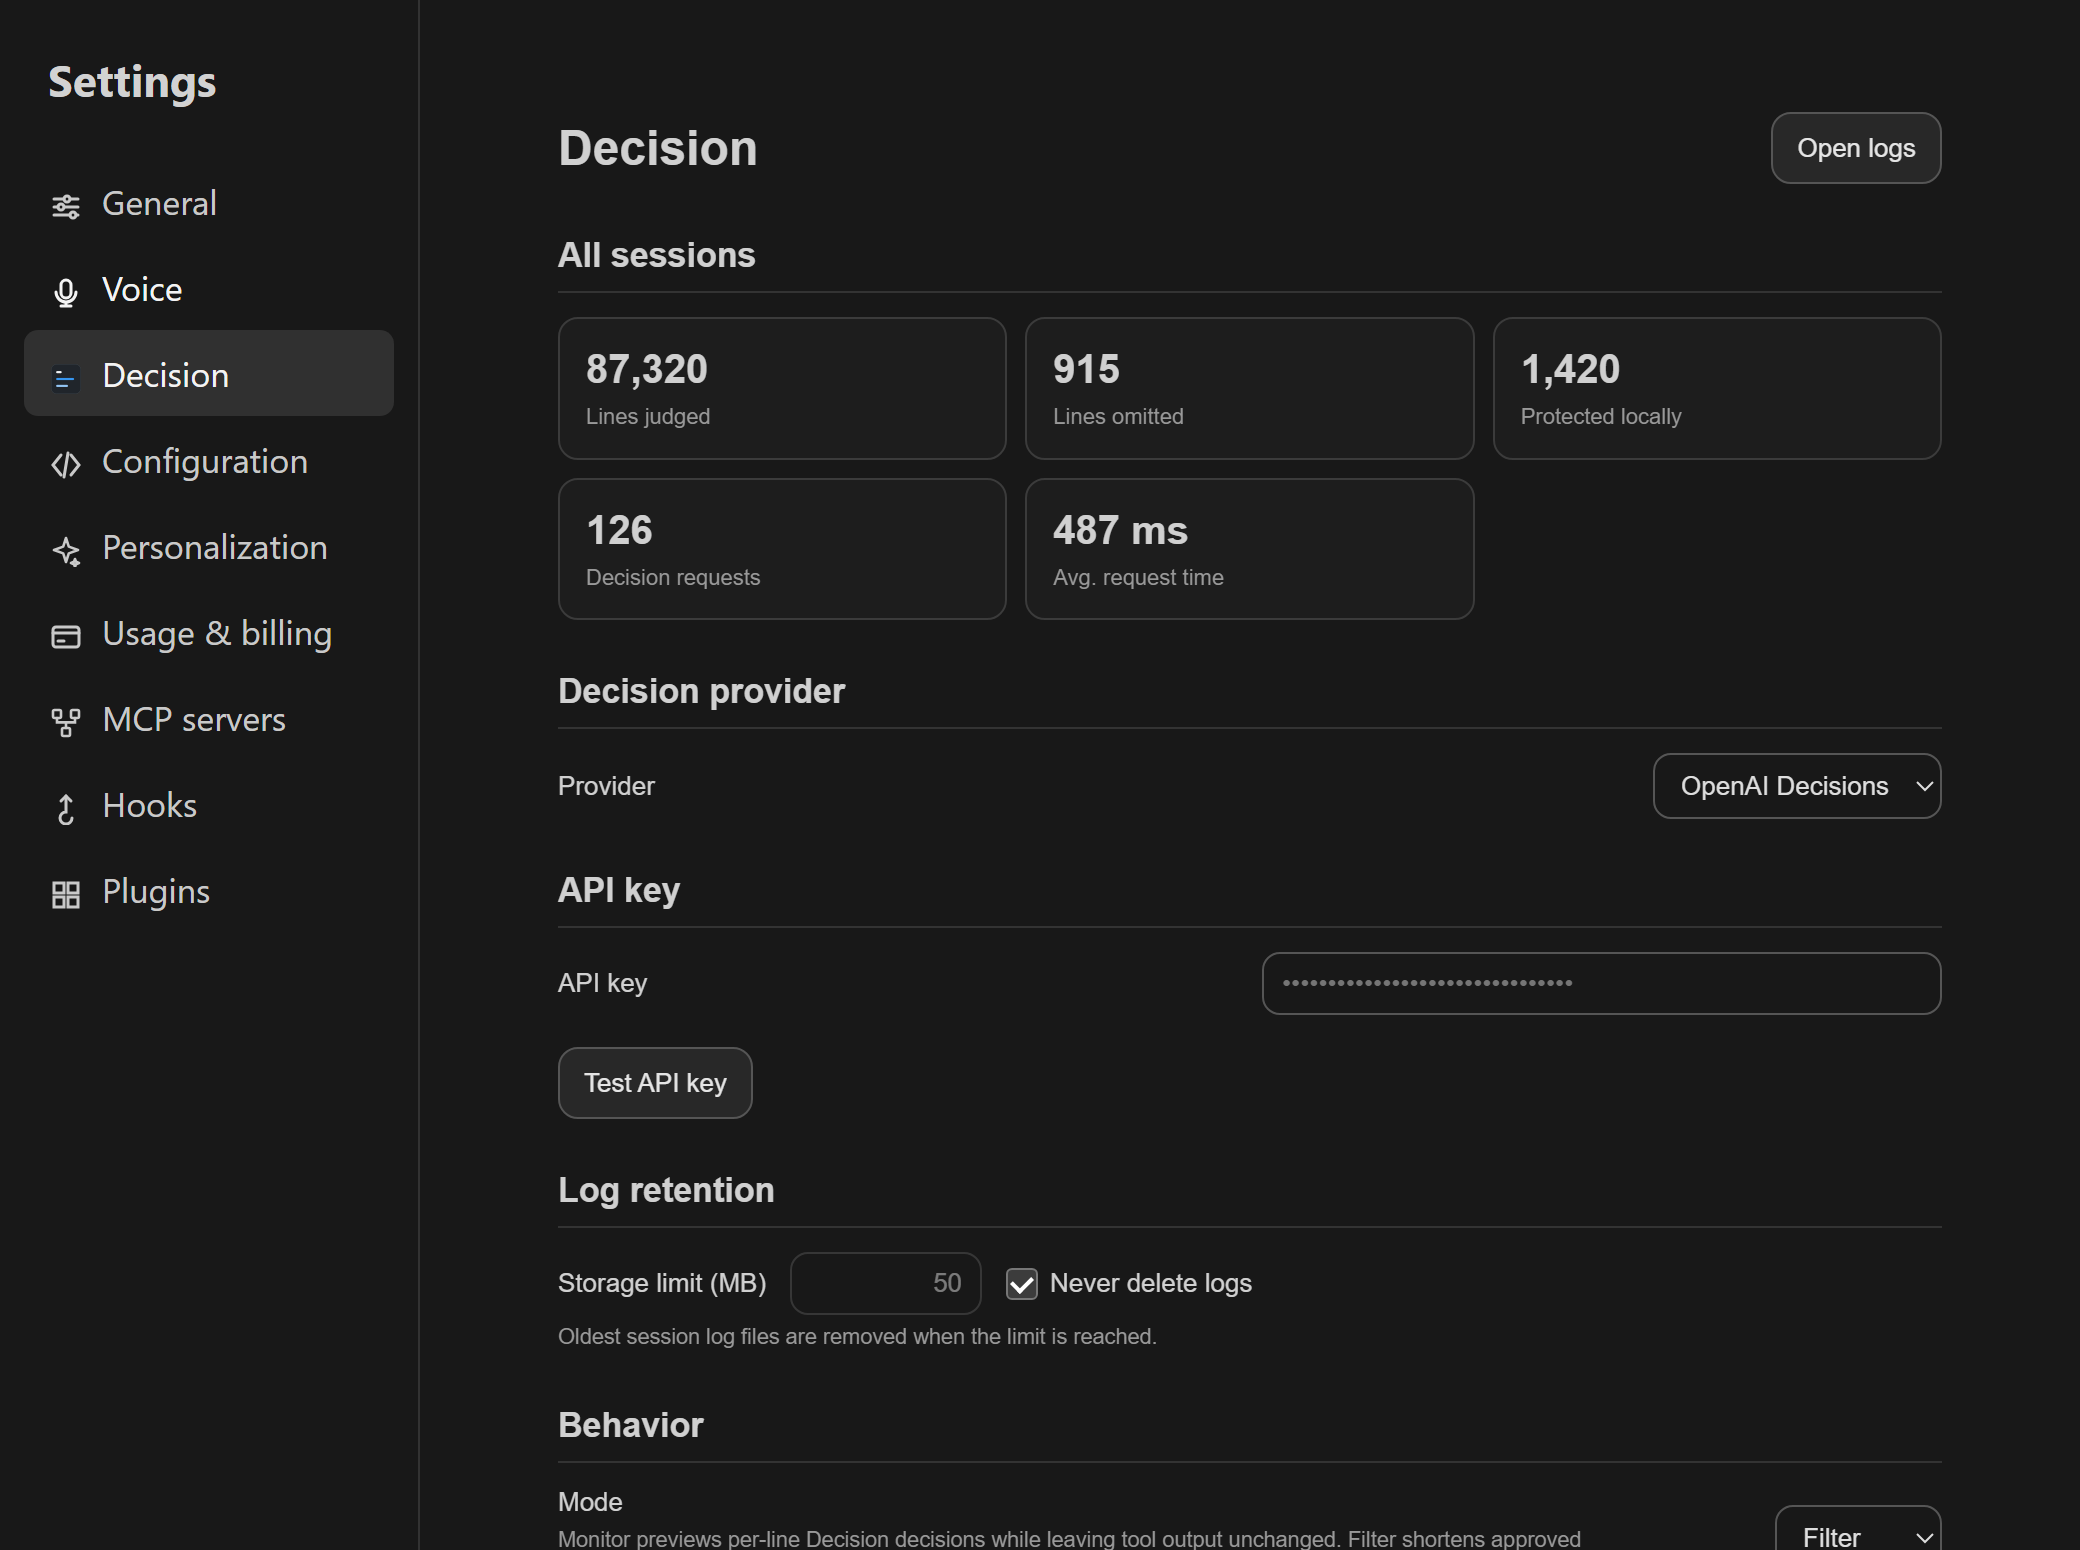
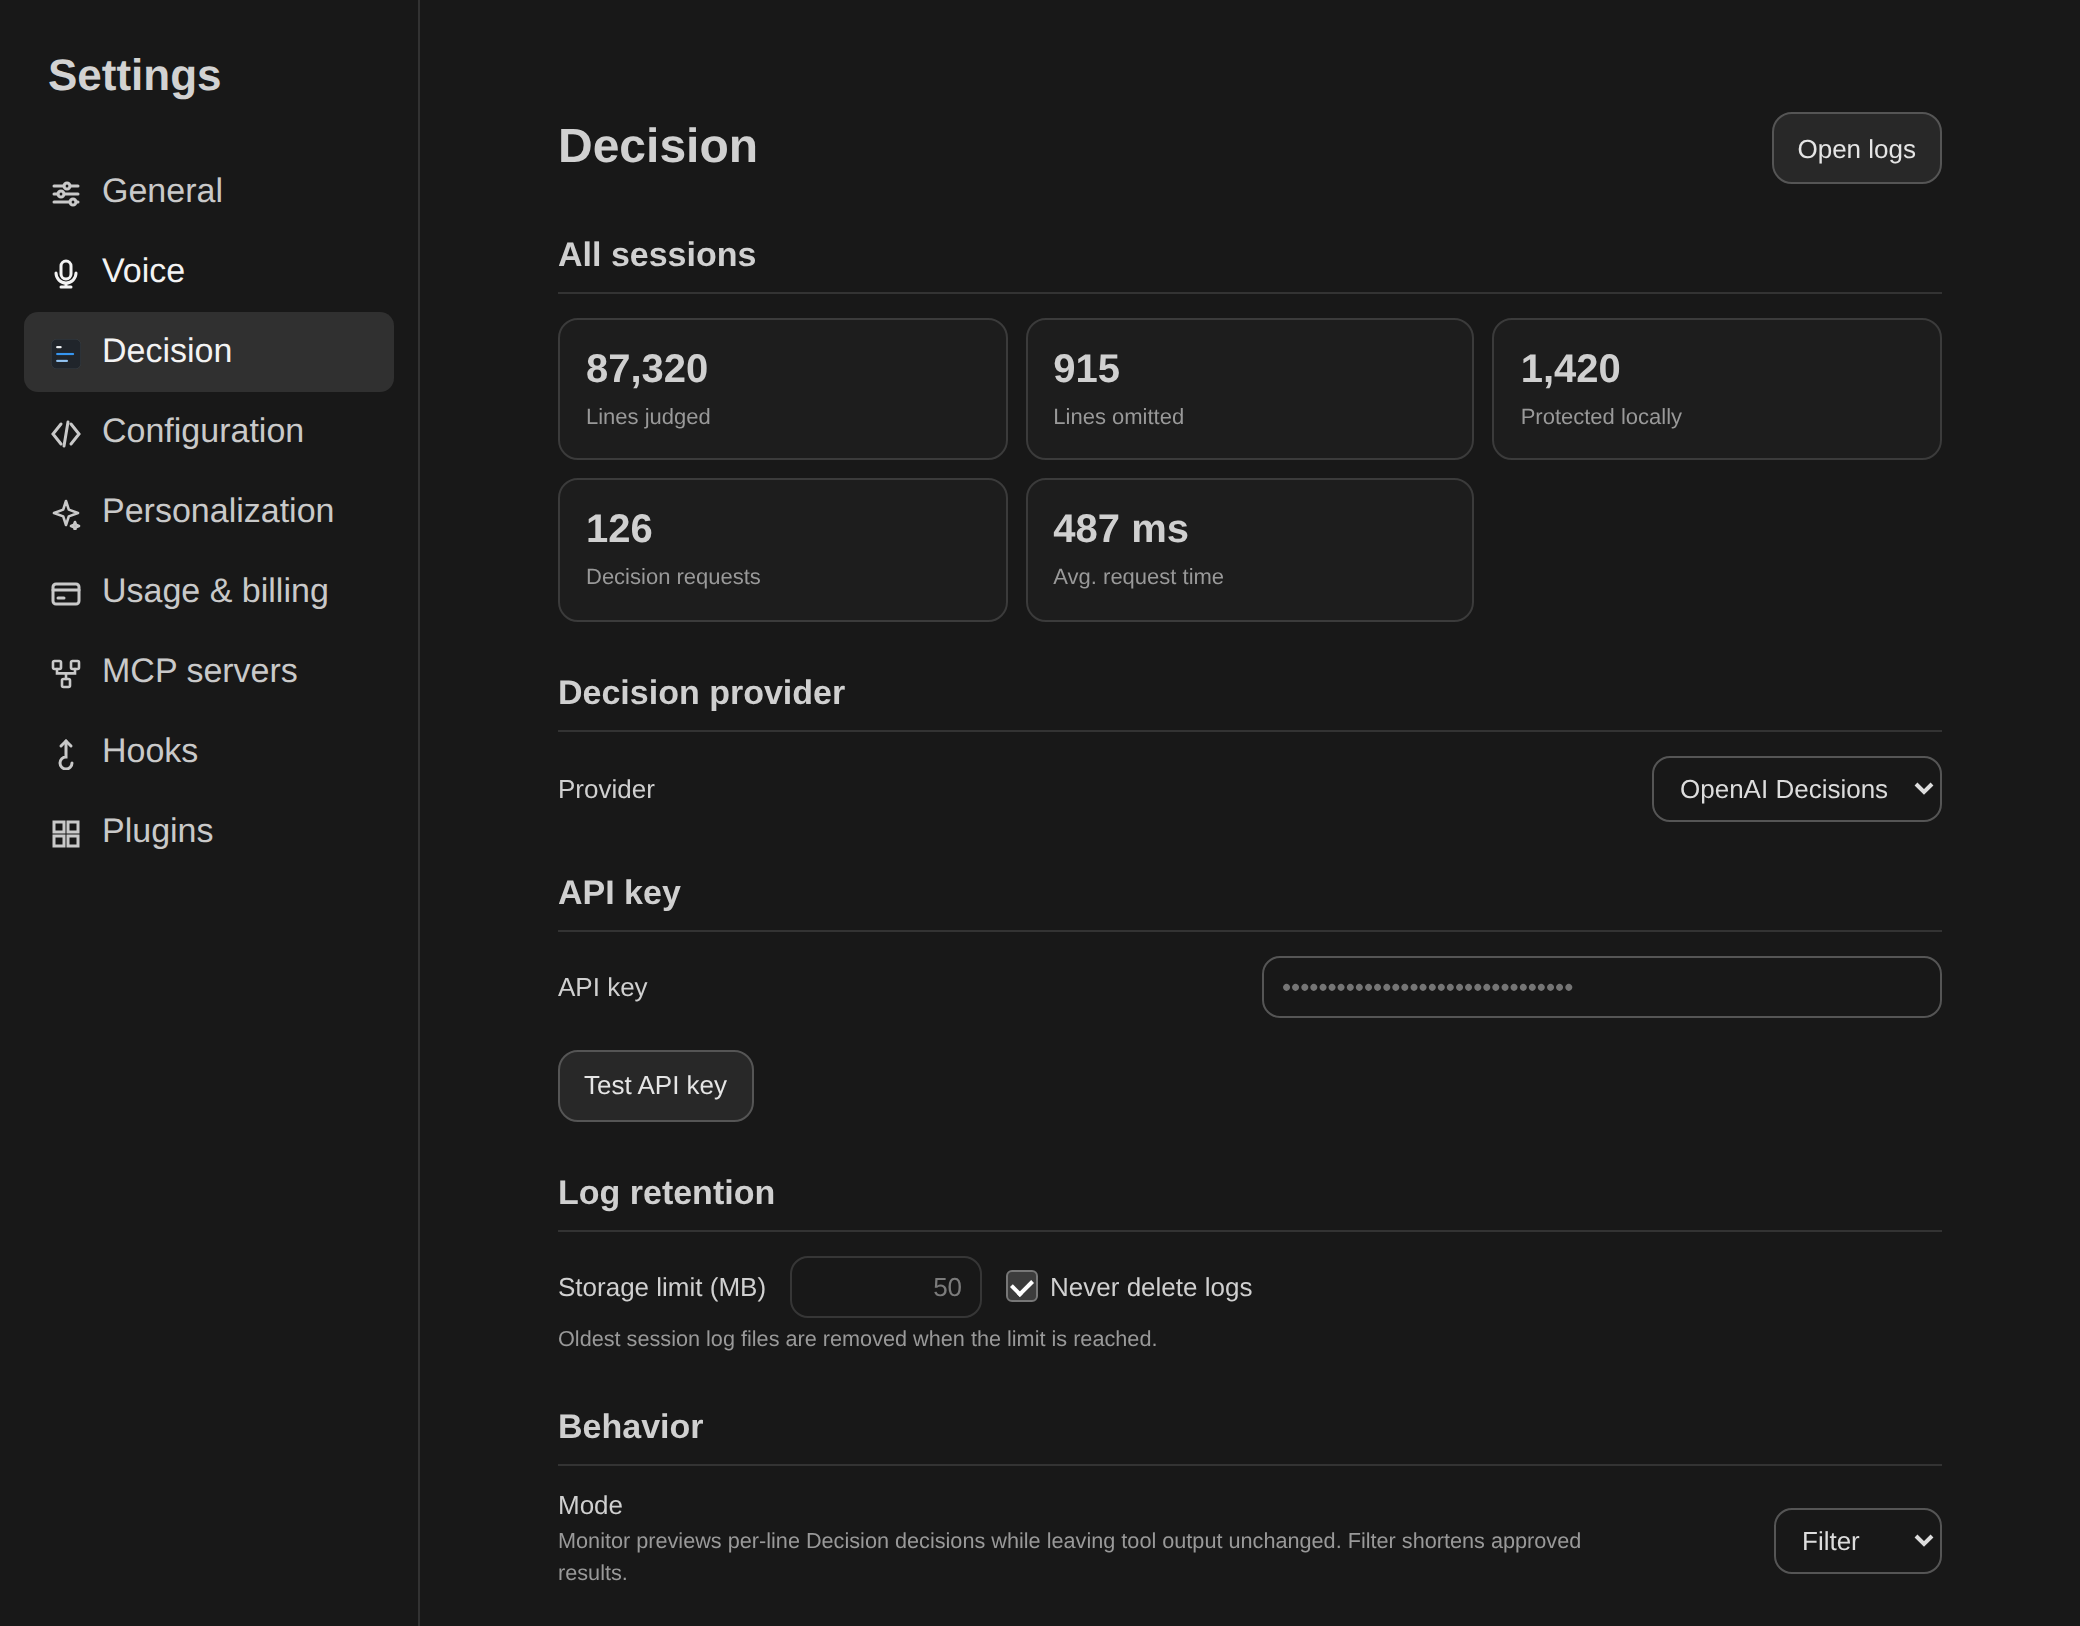
Prepare Decision release documentation and portable verification

diff --git a/tests/browser/visual_harness.html b/tests/browser/visual_harness.html
@@ -135,7 +135,21 @@
       }
       const anchor = document.querySelector(".access").getBoundingClientRect();
       const button = document.getElementById("codex-decision-button").getBoundingClientRect();
-      document.body.dataset.layout = JSON.stringify({ anchorTop: anchor.top, buttonTop: button.top, screenshotOffset: Math.max(0, outerHeight - innerHeight) });
+      const layout = { anchorTop: anchor.top, buttonTop: button.top, screenshotOffset: Math.max(0, outerHeight - innerHeight) };
+      if (demo === "settings") {
+        const recordSettings = () => {
+          const thresholds = document.getElementById("codex-decision-settings-thresholds");
+          const actions = document.querySelector("#codex-decision-settings-panel .save-actions");
+          if (!thresholds || !actions) return setTimeout(recordSettings, 20);
+          layout.settingsSplit = Math.floor(thresholds.getBoundingClientRect().top - 8);
+          layout.settingsBottom = Math.ceil(actions.getBoundingClientRect().bottom + 12);
+          document.body.dataset.layout = JSON.stringify(layout);
+          document.title = "DECISION_VISUAL_READY";
+        };
+        recordSettings();
+        return;
+      }
+      document.body.dataset.layout = JSON.stringify(layout);
       document.title = "DECISION_VISUAL_READY";
     }, 350);
   </script>

diff --git a/tests/browser/browser_harness.html b/tests/browser/browser_harness.html
@@ -554,7 +554,10 @@
         getComputedStyle(routineSlider).backgroundImage.includes("linear-gradient"),
         "percent sign moves into the field and slider track is painted");
       const descriptions = [...settingsScreen.querySelectorAll("#codex-decision-settings-thresholds .section-description")];
-      check(descriptions.length === 1 && descriptions[0].textContent.includes("classifies an excerpt"), "settings explain one shared policy");
+      check(descriptions.length === 1 &&
+        descriptions[0].textContent.includes("Validated logs receive line relevance judgments directly") &&
+        descriptions[0].textContent.includes("Unknown formats first pass an excerptability check"),
+        "settings explain direct log relevance and the unknown-format gate");
       check(!settingsScreen.querySelector("#codex-decision-settings-relevance-guard") &&
         !settingsScreen.querySelector("#codex-decision-settings-test_build-exact_max") &&
         !settingsScreen.querySelector("#codex-decision-settings-search_listing-exact_max"), "category controls are absent");

diff --git a/vscode-control/webview/decision-settings.js b/vscode-control/webview/decision-settings.js
@@ -4,7 +4,7 @@
     ["relevant_max", "Relevance, maximum for omission", "Remove a line only when its probability of being needed is at or below this cutoff."],
   ]]];
   const sectionDescriptions = {
-    output: "Decision first classifies an excerpt. Only confidently excerptable output receives line relevance judgments. Diagnostics, completion evidence, and structured records stay protected.",
+    output: "Validated logs receive line relevance judgments directly. Unknown formats first pass an excerptability check. Diagnostics, completion evidence, and structured records stay protected.",
   };
   let active = false;
   let openingVoice = false;

diff --git a/vscode-control/scripts/capture_docs.py b/vscode-control/scripts/capture_docs.py
@@ -17,6 +17,20 @@ ROOT = Path(__file__).resolve().parents[1]
 IMAGES = ROOT.parent / 'docs' / 'images'
 
 
+def crop_settings(path: Path, layout: dict) -> None:
+    """Split at section boundaries so both browser captures keep complete rows."""
+    with Image.open(path) as settings:
+        split = layout['settingsSplit'] * 2
+        bottom = layout['settingsBottom'] * 2
+        if not 0 < split < bottom <= settings.height:
+            raise RuntimeError(f'Settings sections exceed the capture: {layout}')
+        for name, box in (
+            ('decision-settings-overview.png', (0, 0, settings.width, split)),
+            ('decision-settings-filters.png', (0, split, settings.width, bottom)),
+        ):
+            settings.crop(box).save(IMAGES / name, optimize=True)
+
+
 def chromium_capture() -> None:
     from playwright.sync_api import sync_playwright
 
@@ -53,14 +67,10 @@ def chromium_capture() -> None:
                     assert page.locator('#codex-decision-settings-output-relevant_max').input_value() == '5%'
                     assert page.locator('#codex-decision-settings-relevance-guard').count() == 0
                 page.screenshot(path=str(IMAGES / name))
+                if state == 'settings':
+                    crop_settings(IMAGES / name, json.loads(page.locator('body').get_attribute('data-layout')))
                 print(name)
                 page.close()
-            with Image.open(IMAGES / 'decision-settings.png') as settings:
-                for name, box in (
-                    ('decision-settings-overview.png', (0, 0, 2080, 1550)),
-                    ('decision-settings-filters.png', (0, 1540, 2080, 2110)),
-                ):
-                    settings.crop(box).save(IMAGES / name, optimize=True)
             (IMAGES / 'decision-settings.png').unlink()
             for state, name, height, count, expected in (
                 ('fifty', 'decision-panel.png', 900, 50, ('47 / 50 removed',)),
@@ -134,15 +144,7 @@ def main() -> None:
                                         '>Filter</option>' not in result.stdout):
                 raise RuntimeError('Decision settings were not rendered in Codex settings')
             print(f'{name}: {output.stat().st_size} bytes; layout={layout}')
-        settings = Image.open(profile / 'decision-settings.png')
-        if settings.size != (2080, 2160):
-            raise RuntimeError(f'Unexpected settings capture size: {settings.size}')
-        for name, box in (
-            ('decision-settings-overview.png', (0, 0, 2080, 1550)),
-            ('decision-settings-filters.png', (0, 1540, 2080, 2110)),
-        ):
-            settings.crop(box).save(IMAGES / name, optimize=True)
-            print(f'{name}: {box}')
+        crop_settings(profile / 'decision-settings.png', layout)
         panel_address = 'file:///' + quote(windows_path(ROOT.parent / 'tests/browser/decision_panel_harness.html').replace('\\', '/'), safe='/:')
         for state, name, height, row_count, expected in (
             ('fifty', 'decision-panel.png', 900, 50, ('47 / 50 removed',)),

diff --git a/rust/decision/src/bin/decision-hook/tests.rs b/rust/decision/src/bin/decision-hook/tests.rs
@@ -3,19 +3,17 @@ use super::*;
 #[test]
 fn request_attempts_survive_failure_without_publishing_completion_stats() {
     let root = tempfile::tempdir().unwrap();
-    fs::write(root.path().join("stats.json"), r#"{"calls":7}"#).unwrap();
-    hook_health(root.path(), "request", "").unwrap();
-    hook_health(root.path(), "error", "Decision request failed").unwrap();
-    hook_health(root.path(), "request", "").unwrap();
+    let data = root.path().join("data");
+    ensure_dir(&data).unwrap();
+    fs::write(data.join("stats.json"), r#"{"calls":7}"#).unwrap();
+    hook_health(&data, "request", "").unwrap();
+    hook_health(&data, "error", "Decision request failed").unwrap();
+    hook_health(&data, "request", "").unwrap();
     let health: Value =
-        serde_json::from_slice(&fs::read(root.path().join("logs/hook-health.json")).unwrap())
-            .unwrap();
+        serde_json::from_slice(&fs::read(data.join("logs/hook-health.json")).unwrap()).unwrap();
     assert_eq!(health["api_requests"], 9);
-    assert_eq!(
-        load_stats(&root.path().join("stats.json")).unwrap()["calls"],
-        7
-    );
-    assert!(!root.path().join("logs/latest-decision.json").exists());
+    assert_eq!(load_stats(&data.join("stats.json")).unwrap()["calls"], 7);
+    assert!(!data.join("logs/latest-decision.json").exists());
 }
 
 #[test]

diff --git a/docs/setup/setup_installation.md b/docs/setup/setup_installation.md
@@ -25,7 +25,7 @@ For the optional Windows VS Code control, build and install its VSIX from WSL:
 cd vscode-control
 mkdir -p ../.local/submission
 ../scripts/build_control.sh
-code --install-extension "$(wslpath -w ../.local/submission/codex-decision-control-0.10.9.vsix)" --force
+code --install-extension "$(wslpath -w ../.local/submission/codex-decision-control-0.10.10.vsix)" --force
 ```
 
 Set `codexDecision.dataDirectory` to the installed plugin's absolute `PLUGIN_DATA` directory. Apply the [version-pinned Codex composer patch](../../vscode-control/README.md#install), then reload VS Code. The control needs the same data directory as the hook. Its pinned bridge reads the active thread from Codex's internal router, which can change while the webview URL stays fixed. The home screen has no thread yet; its indicator still checks API health and its settings page remains available. An unreadable local thread ID cannot change another session's state.

diff --git a/vscode-control/README.md b/vscode-control/README.md
@@ -8,7 +8,7 @@ From this directory in WSL:
 
 ```bash
 ../scripts/build_control.sh
-code --install-extension "$(wslpath -w ../.local/submission/codex-decision-control-0.10.9.vsix)" --force
+code --install-extension "$(wslpath -w ../.local/submission/codex-decision-control-0.10.10.vsix)" --force
 ```
 
 The composer and Codex settings page require the separate local patch for Codex VS Code extensions `26.928.31416`, `26.930.21537`, `26.930.31730`, `26.930.41038`, `26.930.51102`, `26.930.61225`, and `26.1002.51308`. It checks exact host hashes and keeps rollback files outside this repository:
